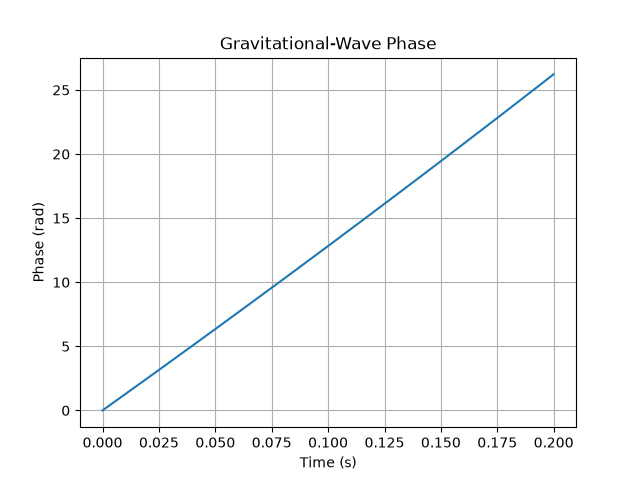
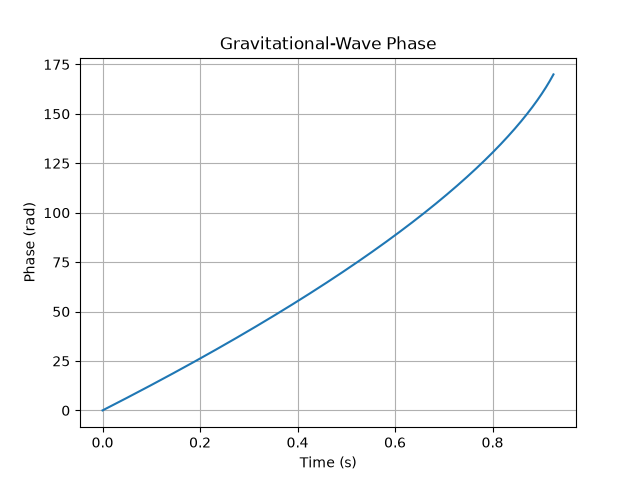
Implement inspiral evolution to ISCO and chirp waveform generation

diff --git a/src/gwmemory/binary.py b/src/gwmemory/binary.py
@@ -1,60 +1,56 @@
 """
 binary.py
-==========
 
-Binary black-hole parameters.
-
-Inputs:
-    m1, m2 : Solar masses
-
-Outputs:
-    Total mass
-    Reduced mass
-    Symmetric mass ratio
-    Chirp mass
+Binary black-hole system.
 """
 
 from dataclasses import dataclass
 
 from .constants import G, C, PI, M_SUN
+
+
 @dataclass
 class BinarySystem:
-    """
-    Binary black-hole system.
-    """
 
+    # User inputs (solar masses)
     m1: float
     m2: float
 
     @property
     def total_mass(self):
-        """
-        Total mass in kilograms.
-        """
-        return (self.m1 + self.m2) * M_SUN
-
-    @property
-    def reduced_mass(self):
-        return ((self.m1 * M_SUN) * (self.m2 * M_SUN)) / self.total_mass
-
-    @property
-    def eta(self):
-       return ((self.m1 * M_SUN) * (self.m2 * M_SUN)) / (self.total_mass**2)
+        return self.m1 + self.m2
 
     @property
     def chirp_mass(self):
-      m1 = self.m1 * M_SUN
-      m2 = self.m2 * M_SUN
-      M = m1 + m2
+        return ((self.m1 * self.m2) ** (3/5)) / ((self.m1 + self.m2) ** (1/5))
 
-      return (m1 * m2)**(3/5) / M**(1/5)
-      
+    @property
+    def eta(self):
+        return (self.m1 * self.m2) / (self.total_mass ** 2)
+
+    @property
+    def m1_si(self):
+        return self.m1 * M_SUN
+
+    @property
+    def m2_si(self):
+        return self.m2 * M_SUN
+
+    @property
+    def total_mass_si(self):
+        return self.total_mass * M_SUN
+
+    @property
+    def chirp_mass_si(self):
+        return self.chirp_mass * M_SUN
+
+    @property
+    def reduced_mass_si(self):
+        return (self.m1_si * self.m2_si) / self.total_mass_si
+
+    @property
     def isco_frequency(self):
-        """
-          Approximate gravitational-wave frequency at the ISCO.
-        """
-
         return (
             C**3 /
-            (PI * (6**1.5) * G * self.total_mass)
+            (PI * (6**1.5) * G * self.total_mass_si)
         )

diff --git a/src/gwmemory/pn.py b/src/gwmemory/pn.py
@@ -17,12 +17,7 @@ class Inspiral:
         self.binary = binary
         self.f0 = f0
         self.dt = dt
-    @property
-    def chirp_mass(self):
-        """
-        Chirp mass in kilograms.
-        """
-        return self.binary.chirp_mass * M_SUN
+
         
     def dfdt(self, f):
         """
@@ -32,7 +27,7 @@ class Inspiral:
         coefficient = (
             (96/5)
             * PI**(8/3)
-            * (G * self.chirp_mass / C**3)**(5/3)
+            * (G * self.binary.chirp_mass_si / C**3)**(5/3)
         )
 
         return coefficient * f**(11/3)
@@ -86,18 +81,33 @@ class Inspiral:
 
         return time, frequency
         
-    def analytical_frequency(self, time):
+    def evolve_to_merger(self):
+          """
+          Evolve the inspiral until the ISCO frequency is reached.
+          """
 
-       K = (
-         (96/5)
-         * PI**(8/3)
-         * (G*self.chirp_mass/C**3)**(5/3)
-       )
+          time = [0.0]
+          frequency = [self.f0]
 
-       return (
-          self.f0**(-8/3)
-          - (8/3)*K*time
-       )**(-3/8)
+          while frequency[-1] < self.binary.isco_frequency:
+
+                t = time[-1]
+                f = frequency[-1]
+
+                # RK4 integration
+                k1 = self.dfdt(f)
+                k2 = self.dfdt(f + 0.5 * self.dt * k1)
+                k3 = self.dfdt(f + 0.5 * self.dt * k2)
+                k4 = self.dfdt(f + self.dt * k3)
+
+                f_new = f + (self.dt / 6.0) * (k1 + 2*k2 + 2*k3 + k4)
+
+                time.append(t + self.dt)
+                frequency.append(f_new)
+
+          return np.array(time), np.array(frequency)
+        
+    
     def analytical_frequency(self, time):
         """
         Analytical leading-order PN solution for the GW frequency.
@@ -105,7 +115,7 @@ class Inspiral:
         K = (
            (96/5) 
            * PI**(8/3) 
-           * (G * self.chirp_mass / C**3)**(5/3)
+           * (G * self.binary.chirp_mass_si / C**3)**(5/3)
         )
 
         return (

diff --git a/test_pn_2.py b/test_pn_2.py
@@ -1,0 +1,14 @@
+from src.gwmemory.binary import BinarySystem
+from src.gwmemory.pn import Inspiral
+
+binary = BinarySystem(30, 30)
+
+solver = Inspiral(binary)
+
+t, f = solver.evolve_to_merger()
+
+print("Initial frequency :", f[0])
+print("Final frequency   :", f[-1])
+print("ISCO frequency    :", binary.isco_frequency)
+print("Number of steps   :", len(t))
+print("Duration          :", t[-1], "seconds")

diff --git a/test_waveform.py b/test_waveform.py
@@ -8,18 +8,19 @@ binary = BinarySystem(30,30)
 
 solver = Inspiral(binary)
 
-t,f = solver.evolve_rk4(0.2)
+#t,f = solver.evolve_rk4(0.2)
+t, f = solver.evolve_to_merger()
 
 wave = Waveform(t,f)
 
-phi = wave.phase()
+h = wave.strain()
 
-plt.plot(t,phi)
+plt.plot(t, h)
 
-plt.xlabel("Time (s)")
-plt.ylabel("Phase (rad)")
+plt.ylabel("Normalized Strain")
+plt.title("Leading-Order Gravitational-Wave Chirp")
 plt.title("Gravitational-Wave Phase")
 
 plt.grid()
 
-plt.savefig("docs/figures/phase.png")
+plt.savefig("docs/figures/chirp_waveform.png", dpi=300)

diff --git a/tests/test_waveform.py b/tests/test_waveform.py
@@ -8,7 +8,9 @@ binary = BinarySystem(30,30)
 
 solver = Inspiral(binary)
 
-t,f = solver.evolve_rk4(0.2)
+#t,f = solver.evolve_rk4(0.2)
+t, f = solver.evolve_to_merger()
+
 
 wave = Waveform(t,f)
 

diff --git a/test_pn2.py b/test_pn2.py
@@ -9,7 +9,7 @@ solver = Inspiral(binary, dt=0.01)
 
 
 t1, f1 = solver.evolve(0.2)
-t2, f2 = solver.evolve_rk4(0.2)
+t, f = solver.evolve_to_merger()
 f_exact = solver.analytical_frequency(t2)
 f_exact = solver.analytical_frequency(t2)
 